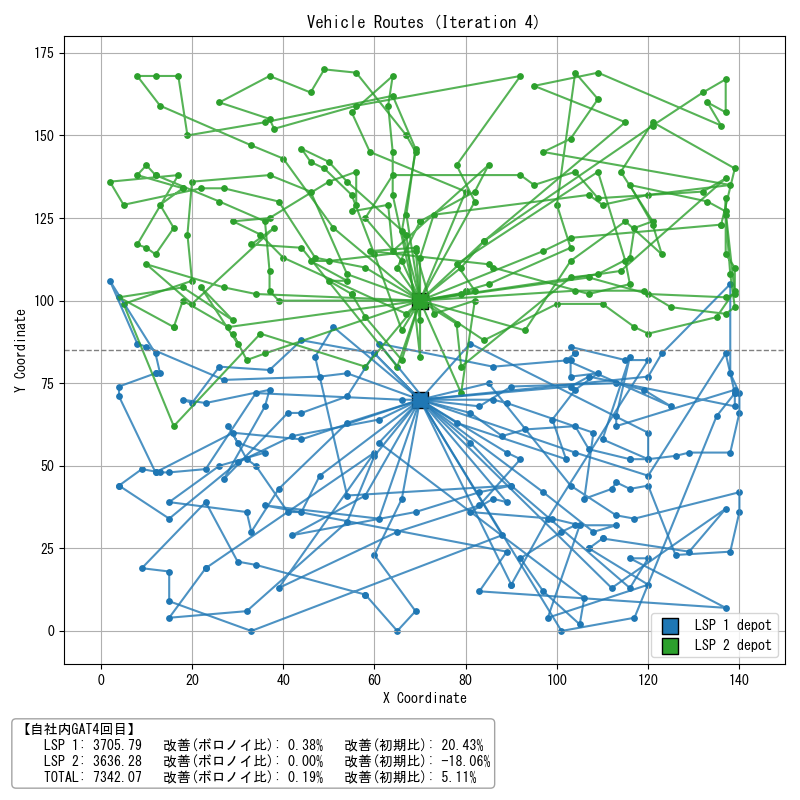
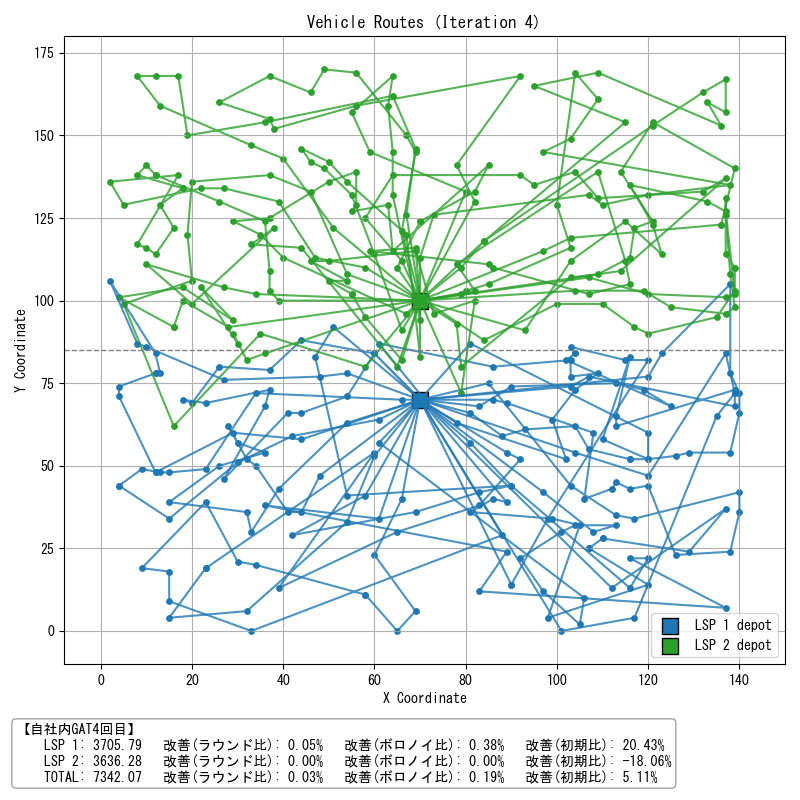
コスト表記修正

diff --git a/visualizer.py b/visualizer.py
@@ -151,9 +151,10 @@ def plot_routes(customers, routes, depot_id_list, vehicle_num_list, iteration, i
             base_voro = voro_metrics["company"][i-1] if voro_metrics else None
             base_init = init_metrics["company"][i-1] if init_metrics else None
             lines.append(f"    LSP {i}: {fmt(c)}   改善(ラウンド比): {pct(base_prev, c)}   改善(ボロノイ比): {pct(base_voro, c)}   改善(初期比): {pct(base_init, c)}")
-        base_total_v = voro_metrics["total"] if voro_metrics else None
-        base_total_i = init_metrics["total"] if init_metrics else None
-        lines.append(f"    TOTAL: {fmt(curr_total)}   改善(ボロノイ比): {pct(base_total_v, curr_total)}   改善(初期比): {pct(base_total_i, curr_total)}")
+        base_total_prev = prev_metrics["total"] if prev_metrics else None
+        base_total_voro = voro_metrics["total"] if voro_metrics else None
+        base_total_init = init_metrics["total"] if init_metrics else None
+        lines.append(f"    TOTAL: {fmt(curr_total)}   改善(ラウンド比): {pct(base_total_prev, curr_total)}   改善(ボロノイ比): {pct(base_total_voro, curr_total)}   改善(初期比): {pct(base_total_init, curr_total)}")
 
     # ====== ★ここを変更：下部フッターに表示 ======
     if lines:
